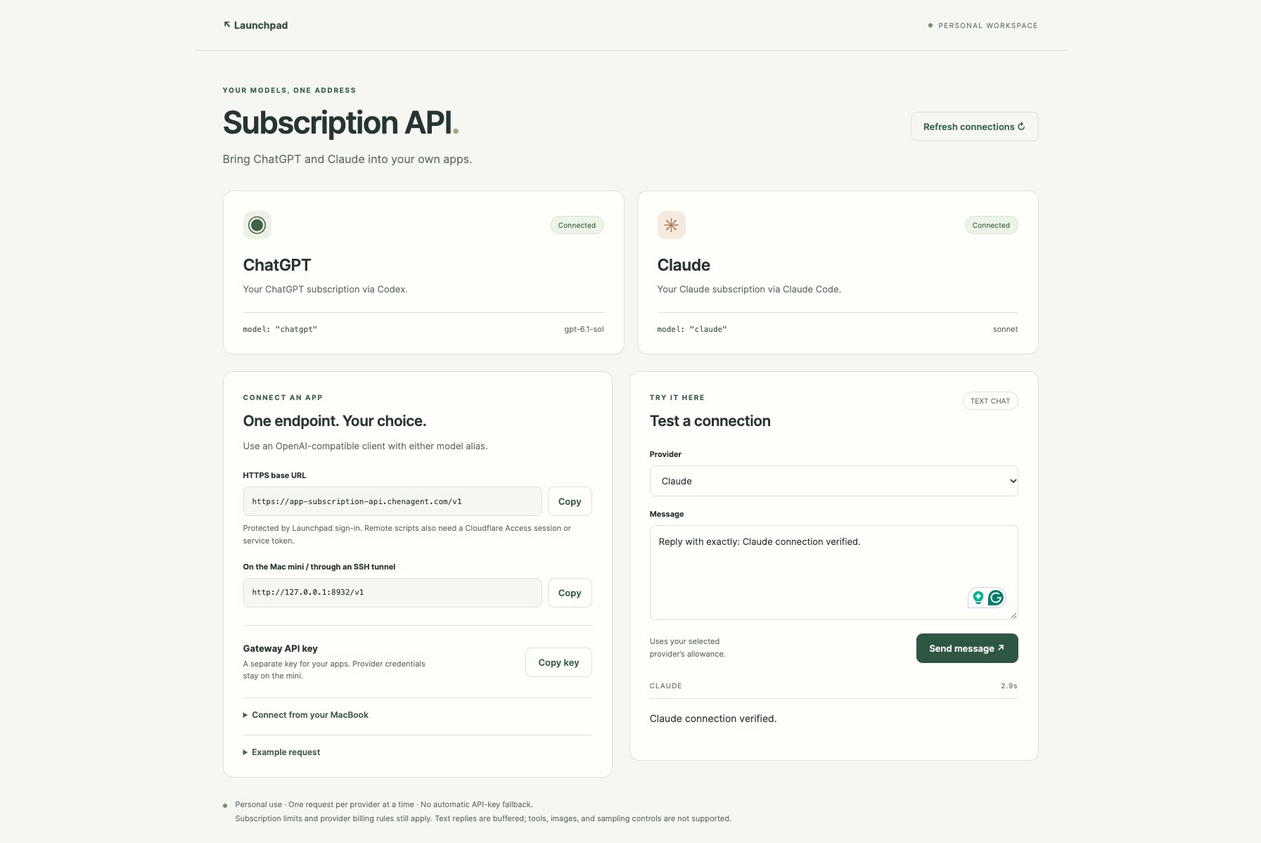
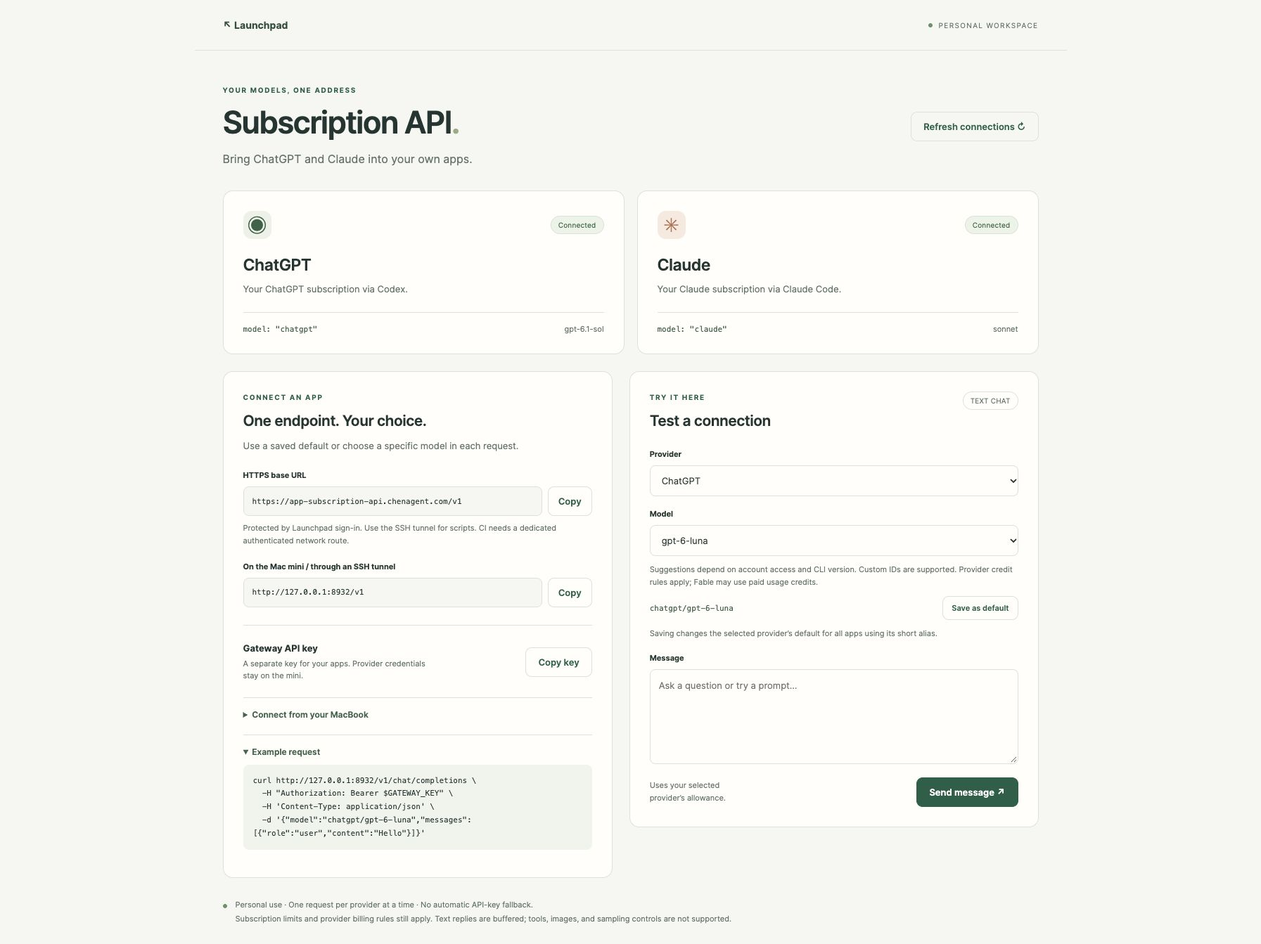
Add selectable models, persistent defaults, and CI integration guide (#2)

diff --git a/public/styles.css b/public/styles.css
@@ -3,3 +3,4 @@
 header{max-width:1240px;margin:auto;padding:27px 40px;display:flex;align-items:center;justify-content:space-between;border-bottom:1px solid var(--line)}.back{text-decoration:none;font-weight:650;font-size:14px;color:#364e40}.private{font-size:10px;letter-spacing:1.4px;display:flex;align-items:center;gap:9px;color:var(--muted)}.dot{width:6px;height:6px;display:inline-block;flex:none;border-radius:50%;background:#72906b}main{max-width:1240px;margin:auto;padding:48px 40px 25px}.intro{display:flex;align-items:center;justify-content:space-between;gap:20px;margin-bottom:32px}.eyebrow{font-size:10px;font-weight:650;letter-spacing:1.7px;color:var(--green);margin:0 0 12px}h1{font-size:44px;letter-spacing:-1.8px;line-height:1.14;font-weight:550;margin:0 0 14px}h1 span{color:#9cad85}.subtitle{font-size:16px;color:var(--muted);margin:0}h2{font-size:21px;font-weight:550;letter-spacing:-.5px;margin:0 0 10px}h3{font-size:13px;margin:0 0 6px}p{font-size:13px;line-height:1.65;color:var(--muted)}.panel{background:var(--white);border:1px solid var(--line);border-radius:14px;padding:28px}.providers{display:grid;grid-template-columns:1fr 1fr;gap:18px;margin-bottom:24px}.provider-top{display:flex;justify-content:space-between;align-items:center;margin-bottom:23px}.mark{display:flex;width:40px;height:40px;border-radius:12px;align-items:center;justify-content:center;font-size:28px}.openai{background:#edf1e8;color:#416149}.anthropic{background:#f6e9df;color:#ae7257}.badge{font-size:10px;letter-spacing:.2px;border:1px solid var(--line);padding:6px 10px;border-radius:25px;color:var(--muted)}.badge.connected{color:#416448;background:#edf3e9;border-color:#d8e4d2}.badge.warning{color:#88613c;background:#fbf2e5;border-color:#eee0c8}.provider h2{font-size:23px}.provider p{margin:0 0 22px}.provider-footer{display:flex;justify-content:space-between;gap:12px;align-items:center;border-top:1px solid var(--line);padding-top:16px;font-size:11px;color:var(--muted)}code,pre{font-family:"SFMono-Regular",Consolas,monospace;font-size:11px}code{color:#48604e}.login-help{padding-top:16px}.login-help p{margin:0 0 5px;font-size:11px}.workspace{display:grid;grid-template-columns:1fr 1.05fr;gap:24px;align-items:start}.endpoint>p{margin-bottom:24px}.endpoint .eyebrow{margin-bottom:12px}.endpoint label{margin-top:20px}.copy-row{display:flex;gap:8px}.copy-row input{min-width:0;font-family:"SFMono-Regular",Consolas,monospace;font-size:11px;background:#f6f7f2}.copy-row button{padding-left:14px;padding-right:14px}label{display:block;font-size:11px;font-weight:650;margin:18px 0 9px}input,select,textarea{width:100%;border:1px solid var(--line);border-radius:8px;background:var(--white);padding:12px;color:#263531;font-size:13px}textarea{resize:vertical;min-height:135px;line-height:1.6}.help{font-size:11px;color:var(--muted);line-height:1.6}.endpoint .help{margin:9px 0 0}.key-row{display:flex;align-items:center;gap:14px;justify-content:space-between;border-top:1px solid var(--line);margin-top:25px;padding-top:24px}.key-row .help{margin:0}.key-row>div{max-width:270px}details{border-top:1px solid var(--line);margin-top:21px;padding-top:16px}summary{cursor:pointer;font-size:12px;font-weight:550;color:#46624e}pre{background:#f1f3ed;border-radius:8px;padding:14px;overflow:auto;line-height:1.7;white-space:pre-wrap;overflow-wrap:anywhere}.section-heading{display:flex;justify-content:space-between;align-items:center;gap:10px}.section-heading .badge{align-self:start}.send-row{display:flex;justify-content:space-between;align-items:center;gap:12px;margin-top:15px}.send-row .help{max-width:150px}.response-label{display:flex;justify-content:space-between;font-size:10px;letter-spacing:1px;color:var(--muted);margin:26px 0 12px}#response{border-top:1px solid var(--line);padding-top:16px;white-space:pre-wrap;overflow-wrap:anywhere;font-size:14px;line-height:1.75;min-height:60px}#notice:empty{display:none}#notice{padding:12px 16px;border:1px solid #d5e0cb;background:#edf3e8;border-radius:8px;font-size:13px;margin-bottom:20px}#notice.error{background:#fcf0e9;border-color:#e8d1c3;color:#8c4f37}.input-row{display:flex;gap:10px}#local-auth{margin-bottom:24px}footer{display:flex;align-items:flex-start;gap:12px;margin-top:29px}footer .dot{margin-top:8px}footer p{font-size:11px;margin:0;line-height:1.8}
 @media(max-width:900px){main{padding:30px 24px}.workspace{grid-template-columns:1fr}.intro{align-items:flex-start}h1{font-size:37px}header{padding:22px 24px}.panel{padding:24px}}
 @media(max-width:560px){.providers{grid-template-columns:1fr}.intro{display:block}.intro>button{margin-top:22px}h1{font-size:34px}.private{font-size:8px;letter-spacing:.8px}main{padding:30px 18px}header{padding:20px 18px}.panel{padding:21px}.provider-top{margin-bottom:18px}.send-row{flex-wrap:wrap}.send-row .help{max-width:none;flex:1}.copy-row{gap:6px}.copy-row input{font-size:10px}.section-heading .badge{display:none}.key-row{align-items:flex-start}.provider-footer span{font-size:10px}.subtitle{font-size:14px}}
+.model-default-row{display:flex;align-items:center;justify-content:space-between;gap:12px}.model-default-row code{overflow-wrap:anywhere;min-width:0}.model-default-row button{padding:9px 12px;font-size:11px}.response-label{gap:12px;overflow-wrap:anywhere}.provider-footer span{overflow-wrap:anywhere;min-width:0}

diff --git a/public/app.js b/public/app.js
@@ -11,6 +11,38 @@ async function request(path, options = {}) {
   if (!response.ok) throw new Error(data.error?.message || 'Request failed.');
   return data;
 }
+function selectedModel() {
+  return $('model').value === 'custom' ? $('provider').value + '/' + $('custom-model').value.trim() : $('model').value;
+}
+function updateSelection() {
+  const custom = $('model').value === 'custom';
+  $('custom-model-wrap').hidden = !custom;
+  $('custom-model').required = custom;
+  const model = selectedModel();
+  $('selected-model').textContent = model;
+  $('save-model').disabled = !model.includes('/') || (custom && !$('custom-model').value.trim());
+  if (loadedStatus) {
+    const body = JSON.stringify({ model, messages: [{ role: 'user', content: 'Hello' }] });
+    const quotedBody = "'" + body.replaceAll("'", "'\\''") + "'";
+    $('example').textContent = [
+      `curl ${loadedStatus.localBaseUrl}/chat/completions`,
+      '  -H "Authorization: Bearer $GATEWAY_KEY"',
+      "  -H 'Content-Type: application/json'",
+      `  -d ${quotedBody}`,
+    ].join(' \\\n');
+  }
+}
+function renderModels(preserve = false) {
+  if (!loadedStatus) return;
+  const provider = $('provider').value;
+  const previous = preserve ? $('model').value : provider;
+  $('model').replaceChildren(...loadedStatus.models.filter(model => model.provider === provider).map(model => new Option(model.label, model.id)), new Option('Custom model ID…', 'custom'));
+  $('model').value = [...$('model').options].some(option => option.value === previous) ? previous : provider;
+  $('model').disabled = false;
+  $('custom-model').placeholder = provider === 'chatgpt' ? 'e.g. gpt-6.1-sol' : 'e.g. claude-opus-4-8';
+  $('send').disabled = Boolean(controller);
+  updateSelection();
+}
 async function refresh() {
   $('refresh').disabled = true;
   try {
@@ -28,7 +60,7 @@ async function refresh() {
     }
     $('base-url').value = status.baseUrl;
     $('local-url').value = status.localBaseUrl;
-    $('example').textContent = `curl ${status.localBaseUrl}/chat/completions \\\n  -H "Authorization: Bearer $GATEWAY_KEY" \\\n  -H 'Content-Type: application/json' \\\n  -d '{"model":"chatgpt","messages":[{"role":"user","content":"Hello"}]}'`;
+    renderModels(true);
     notice('');
   } catch (error) { notice(error.message, true); }
   finally { $('refresh').disabled = false; }
@@ -38,7 +70,22 @@ async function copy(value, message) {
   catch { notice('Clipboard access was unavailable. Select and copy the endpoint field manually.', true); }
 }
 $('refresh').addEventListener('click', refresh);
-$('copy-url').addEventListener('click', () => { if (loadedStatus) copy(loadedStatus.baseUrl, 'HTTPS base URL copied. Remote clients also need Cloudflare Access authentication.'); });
+$('provider').addEventListener('change', () => renderModels());
+$('model').addEventListener('change', updateSelection);
+$('custom-model').addEventListener('input', updateSelection);
+$('save-model').addEventListener('click', async () => {
+  const provider = $('provider').value, model = selectedModel().slice(provider.length + 1);
+  $('save-model').disabled = true;
+  try {
+    const result = await request('/api/models/default', { method: 'POST', body: JSON.stringify({ provider, model }) });
+    loadedStatus = { ...loadedStatus, ...result };
+    $(provider + '-model').textContent = result.upstreamModels[provider];
+    renderModels(true);
+    notice(`Default saved: ${provider} now uses ${model}. Existing requests keep their selected model.`);
+  } catch (error) { notice(error.message, true); }
+  finally { updateSelection(); }
+});
+$('copy-url').addEventListener('click', () => { if (loadedStatus) copy(loadedStatus.baseUrl, 'HTTPS base URL copied. For scripts, use a private tunnel or a configured machine-authenticated route.'); });
 $('copy-local').addEventListener('click', () => { if (loadedStatus) copy(loadedStatus.localBaseUrl, 'Local base URL copied.'); });
 $('copy-key').addEventListener('click', async () => {
   try { const result = await request('/api/key', { method: 'POST', body: '{}' }); await copy(result.key, 'Gateway key copied. Paste it into your own app’s API-key setting.'); }
@@ -48,12 +95,12 @@ $('auth-form').addEventListener('submit', event => { event.preventDefault(); loc
 $('cancel').addEventListener('click', () => controller?.abort());
 $('chat-form').addEventListener('submit', async event => {
   event.preventDefault();
-  if (controller) return;
+  if (controller || !loadedStatus) return;
   controller = new AbortController();
   $('send').disabled = true; $('cancel').hidden = false;
   $('response-wrap').hidden = false;
-  const model = $('provider').value;
-  $('response-provider').textContent = model === 'chatgpt' ? 'CHATGPT' : 'CLAUDE';
+  const model = selectedModel();
+  $('response-provider').textContent = model;
   $('response').textContent = 'Waiting for your provider…';
   const start = Date.now();
   const timer = setInterval(() => { $('elapsed').textContent = `${Math.round((Date.now() - start) / 1000)}s`; }, 1000);

diff --git a/public/index.html b/public/index.html
@@ -16,16 +16,22 @@
       <article class="provider panel"><div class="provider-top"><span class="mark anthropic">✳</span><span id="claude-state" class="badge">Checking…</span></div><h2>Claude</h2><p>Your Claude subscription via Claude Code.</p><div class="provider-footer"><code>model: "claude"</code><span id="claude-model"></span></div><div id="claude-login" class="login-help" hidden><p id="claude-login-hint">Sign in on the Mac mini, then refresh:</p><code id="claude-login-command">claude auth login --claudeai</code></div></article>
     </section>
     <div class="workspace">
-      <section class="panel endpoint"><p class="eyebrow">CONNECT AN APP</p><h2>One endpoint. Your choice.</h2><p>Use an OpenAI-compatible client with either model alias.</p>
+      <section class="panel endpoint"><p class="eyebrow">CONNECT AN APP</p><h2>One endpoint. Your choice.</h2><p>Use a saved default or choose a specific model in each request.</p>
         <label for="base-url">HTTPS base URL</label><div class="copy-row"><input id="base-url" readonly aria-label="HTTPS base URL"><button id="copy-url" class="secondary" aria-label="Copy HTTPS base URL">Copy</button></div>
-        <p class="help">Protected by Launchpad sign-in. Remote scripts also need a Cloudflare Access session or service token.</p>
+        <p class="help">Protected by Launchpad sign-in. Use the SSH tunnel for scripts. CI needs a dedicated authenticated network route.</p>
         <label for="local-url">On the Mac mini / through an SSH tunnel</label><div class="copy-row"><input id="local-url" readonly aria-label="Local base URL"><button id="copy-local" class="secondary" aria-label="Copy local base URL">Copy</button></div>
         <div class="key-row"><div><h3>Gateway API key</h3><p class="help">A separate key for your apps. Provider credentials stay on the mini.</p></div><button id="copy-key" class="secondary">Copy key</button></div>
         <details><summary>Connect from your MacBook</summary><p>Keep this tunnel running, then use the local URL and gateway key in your app.</p><pre>ssh -N -L 8932:127.0.0.1:8932 mini</pre></details>
         <details><summary>Example request</summary><pre id="example"></pre></details>
       </section>
       <section class="panel playground"><div class="section-heading"><div><p class="eyebrow">TRY IT HERE</p><h2>Test a connection</h2></div><span class="badge neutral">TEXT CHAT</span></div>
-        <form id="chat-form"><label for="provider">Provider</label><select id="provider" name="provider"><option value="chatgpt">ChatGPT</option><option value="claude">Claude</option></select><label for="prompt">Message</label><textarea id="prompt" rows="4" maxlength="12000" placeholder="Ask a question or try a prompt…" required></textarea><div class="send-row"><span class="help">Uses your selected provider’s allowance.</span><button id="send">Send message ↗</button><button id="cancel" type="button" class="secondary" hidden>Cancel</button></div></form>
+        <form id="chat-form"><label for="provider">Provider</label><select id="provider" name="provider"><option value="chatgpt">ChatGPT</option><option value="claude">Claude</option></select>
+          <label for="model">Model</label><select id="model" name="model" disabled><option>Loading models…</option></select>
+          <div id="custom-model-wrap" hidden><label for="custom-model">Exact model ID</label><input id="custom-model" maxlength="100" placeholder="e.g. gpt-6.1-sol" autocomplete="off" spellcheck="false"></div>
+          <p class="help">Suggestions depend on account access and CLI version. Custom IDs are supported. Provider credit rules apply; Fable may use paid usage credits.</p>
+          <div class="model-default-row"><code id="selected-model"></code><button id="save-model" type="button" class="secondary" disabled>Save as default</button></div>
+          <p class="help">Saving changes the selected provider’s default for all apps using its short alias.</p>
+          <label for="prompt">Message</label><textarea id="prompt" rows="4" maxlength="12000" placeholder="Ask a question or try a prompt…" required></textarea><div class="send-row"><span class="help">Uses your selected provider’s allowance.</span><button id="send" disabled>Send message ↗</button><button id="cancel" type="button" class="secondary" hidden>Cancel</button></div></form>
         <div id="response-wrap" hidden><div class="response-label"><span id="response-provider">RESPONSE</span><span id="elapsed"></span></div><div id="response" role="status" aria-live="polite"></div></div>
       </section>
     </div>

diff --git a/README.md b/README.md
@@ -1,6 +1,6 @@
 # Subscription API
 
-A private, single-user HTTP gateway for ChatGPT and Claude subscriptions, with a small dashboard for connection status, endpoint settings, and test prompts. Select `chatgpt` or `claude` through one OpenAI-compatible **text Chat Completions** endpoint.
+A private, single-user HTTP gateway for ChatGPT and Claude subscriptions, with a small dashboard for connection status, endpoint settings, and test prompts. Select a specific model or a saved `chatgpt` / `claude` default through one OpenAI-compatible **text Chat Completions** endpoint.
 
 The gateway invokes the official Codex and Claude Code CLIs using their existing subscription sign-ins. It does not scrape websites, extract browser cookies, or silently fall back to provider API keys. It is not affiliated with OpenAI or Anthropic.
 
@@ -59,7 +59,7 @@ curl --fail-with-body http://127.0.0.1:8932/v1/chat/completions \
   -d '{"model":"chatgpt","messages":[{"role":"user","content":"Say hello in one sentence."}]}'
 ```
 
-Change `model` to `claude` to use Claude. Add `"stream":true` for buffered SSE. Keep API keys in environment variables or a credential store. See [sample input and output](examples/) for the exact response shape.
+Change `model` to `claude` to use Claude’s saved default, or select a specific model with `chatgpt/gpt-6.1-sol`, `chatgpt/gpt-6-luna`, `claude/opus`, or `claude/claude-opus-4-8`. Add `"stream":true` for buffered SSE. Keep API keys in environment variables or a credential store. See [sample input and output](examples/) for the exact response shape.
 
 In a compatible client, set:
 
@@ -67,7 +67,7 @@ In a compatible client, set:
 | --- | --- |
 | Base URL | `http://127.0.0.1:8932/v1` |
 | API key | Contents of `gateway.key` |
-| Model | `chatgpt` or `claude` |
+| Model | `chatgpt`, `claude`, or `provider/model-id` |
 
 Clients that always send extra fields, require tool calling, or require the Responses API will need adaptation. This project deliberately does not claim complete OpenAI compatibility.
 
@@ -77,7 +77,19 @@ For another computer, forward a local port to the service host:
 ssh -N -L 8932:127.0.0.1:8932 YOUR_SERVER
 ```
 
-Then use the same local base URL and key on that computer. A public HTTPS URL behind Cloudflare Access requires **both** Access authentication and the gateway bearer key. An API key alone does not bypass the Access login. See [deployment](docs/deployment.md).
+Then use the same local base URL and key on that computer. The public HTTPS URL requires **both** an authenticated owner session and the gateway bearer key. An API key or Cloudflare service token alone does not pass the launcher’s owner-identity check. See [deployment](docs/deployment.md).
+
+## Choosing models
+
+In the dashboard, choose **Provider**, then **Model**. Choose **Custom model ID…** to enter a name absent from the suggestions. **Save as default** changes the selected provider’s short alias across all clients and persists through restarts; merely sending a request does not change the default.
+
+`GET /v1/models` lists the two aliases, suggested model IDs, and each saved default. It is a curated convenience list, not a live entitlement check. Any syntactically valid qualified model ID can be requested. Names allow letters, digits, dots, underscores, hyphens, and an optional `[1m]` suffix. The gateway forwards the chosen name to the corresponding official CLI. Account restrictions, CLI versions, and provider alias/fallback policies still apply; the response’s `model` field echoes the requested route, not an independently verified upstream version. A saved default is not validated by making a billable request; use **Send message** to test access.
+
+Codex uses the selected model’s default reasoning effort. Claude aliases can change version over time; use a full ID when you need to request a particular version. See [OpenAI models](https://learn.chatgpt.com/docs/models) and [Claude model configuration](https://code.claude.com/docs/en/model-config). Some selections, including Claude Fable, may consume usage credits under your plan. The gateway does not enable paid API-key fallback or bypass provider billing settings.
+
+## GitHub Actions
+
+CI can call this endpoint to analyze text, diffs, or test logs. Builds and tests still run in the CI runner. See the [CI integration guide](docs/github-actions.md) and [example request step](examples/github-actions-step.yml). The example requires a working authenticated network route; a target repository has not yet been connected.
 
 ## Architecture and configuration
 
@@ -88,7 +100,7 @@ Dashboard / API client
   → Codex or Claude Code (isolated request directory, tools disabled)
 ```
 
-`src/server.mjs` owns HTTP and the trusted launcher contract. `src/providers.mjs` owns CLI arguments, input validation, and response parsing. `src/process.mjs` owns bounded subprocesses and an allowlisted environment. `public/` contains the dashboard; no framework or runtime npm dependencies are required.
+`src/server.mjs` owns HTTP and the trusted launcher contract. `src/models.mjs` owns model routing and persistent defaults. `src/providers.mjs` owns CLI arguments, input validation, and response parsing. `src/process.mjs` owns bounded subprocesses and an allowlisted environment. `public/` contains the dashboard; no framework or runtime npm dependencies are required.
 
 | Environment variable | Default / purpose |
 | --- | --- |
@@ -99,7 +111,7 @@ Dashboard / API client
 | `LAUNCHER_OWNER_EMAIL` | Empty; enables the trusted launcher identity contract only when explicitly configured |
 | `CODEX_BIN`, `CLAUDE_BIN` | `codex`, `claude`; production should use absolute executable paths |
 | `CLAUDE_OAUTH_TOKEN_FILE` | Optional owner-only file containing a subscription OAuth token from `claude setup-token`; injected only into Claude processes |
-| `CHATGPT_MODEL`, `CLAUDE_MODEL` | `gpt-6.1-sol`, `sonnet`; upstream models behind the two aliases |
+| `CHATGPT_MODEL`, `CLAUDE_MODEL` | `gpt-6.1-sol`, `sonnet`; initial alias defaults, overridden by saved dashboard settings |
 
 Inherited environment variables containing API keys, alternative provider URLs, OAuth overrides, and Node preload options are excluded from provider processes. The only optional credential injection is the explicitly configured Claude subscription OAuth file, which must be an owner-only regular file owned by the service user. Codex is forced to ChatGPT authentication and ignores user configuration. Claude runs in safe/restricted mode with an empty tool allowlist. CLI upgrades may change flags, authentication, or output formats; rerun a live smoke test after upgrading.
 

diff --git a/docs/github-actions.md b/docs/github-actions.md
@@ -1,0 +1,36 @@
+# GitHub Actions integration
+
+Yes: a CI job can call `POST /v1/chat/completions` with a selected `provider/model-id`. It can summarize a diff, explain a failed test, or evaluate generated text. It cannot ask this text-only gateway to execute repository commands, run tests, edit files, or perform tool calls. Run normal builds/tests in GitHub Actions and provide only the relevant text to the model.
+
+## Recommended connection for this installation
+
+Use an ephemeral GitHub-hosted runner with a narrowly scoped private network connection to the service host, then an SSH local forward to `127.0.0.1:8932`. The existing Mac mini is already reached over Tailscale. Provision CI identity/network access for only the chosen repository and only the required host/port. Use a dedicated forwarding-only SSH identity, a verified/pinned SSH host key, and the gateway key in GitHub Actions secrets. Do not reuse a personal administrator SSH key. Network access alone does not expose the gateway: it binds only to loopback, so the SSH forward is still required.
+
+```text
+GitHub-hosted runner → private network → restricted SSH tunnel
+  → Mac mini loopback:8932 → selected subscription model
+```
+
+GitHub documents [private networking for hosted runners](https://docs.github.com/en/actions/concepts/runners/private-networking). The exact network action, trust policy, SSH configuration, secret names, and event trigger must be configured and tested for the target repository before enabling an AI job.
+
+The existing public app URL is protected twice: Cloudflare Access and the launcher’s signed owner-email check. An API key alone does not pass either. A Cloudflare service token alone also fails the launcher’s owner-email check. A separate machine-authenticated route could be built, but has not been provisioned. Do not weaken the owner dashboard policy to make CI work.
+
+Avoid placing a general-purpose self-hosted runner on the personal Mac mini just to reach the endpoint: it executes repository workflow code on that machine. GitHub-hosted execution with restricted forwarding keeps build execution separate from the subscription host.
+
+## Add the request step
+
+After the trusted network/tunnel step works, copy [the example step](../examples/github-actions-step.yml) under a job’s `steps`. Set:
+
+- `SUBSCRIPTION_API_BASE_URL` repository variable: `http://127.0.0.1:8932/v1` for the runner’s local SSH-forwarded port.
+- `SUBSCRIPTION_API_MODEL` repository variable: an explicit route such as `chatgpt/gpt-6-luna` or `claude/sonnet`; aliases are allowed but change with the dashboard default.
+- `SUBSCRIPTION_API_KEY` repository secret: the gateway key. Keep provider OAuth credentials on the service host.
+
+The example makes one small test call, checks the HTTP and response shape, and records only success in the job summary. It deliberately does not log arbitrary model output or execute it. It is a step fragment, not a complete provisioned workflow. Start with a manual `workflow_dispatch` job on a trusted branch. Do not expose gateway/network credentials to fork PR code or execute model-generated commands. See [GitHub’s secure workflow guidance](https://docs.github.com/en/actions/reference/security/secure-use).
+
+For useful review/test analysis, build the JSON from input files with `jq --rawfile` rather than interpolating untrusted PR content into shell code. Keep the combined conversation under 100,000 characters and the HTTP body under 256 KB. Treat generated advice as advisory; deterministic tests should decide whether builds pass.
+
+## Reliability and usage
+
+The Mac mini, private network, CLIs, and subscription sign-ins must remain available. The endpoint permits one in-flight request per provider and times out inference after 90 seconds. Use a workflow/job timeout and avoid parallel requests to the same provider. Requests can fail with 429 (busy/limit), 503 (login), or 502 (provider/model error). Do not blindly retry timeouts: a request may already have consumed allowance. Choose whether an AI-step outage should block the build; normal build/test jobs should remain independent unless AI evaluation is explicitly a release requirement.
+
+Usage follows subscription/model/credit rules; this is not unlimited CI capacity. [Claude documents subscription access for noninteractive calls](https://support.claude.com/en/articles/15036540-use-the-claude-agent-sdk-with-your-claude-plan), while model access and billing can vary by account. No live GitHub-to-gateway request has been verified yet: a target repository and CI task are still needed.

diff --git a/docs/deployment.md b/docs/deployment.md
@@ -4,7 +4,7 @@
 
 Run as a user who has already signed into both official CLIs. Set an absolute persistent `APP_DATA_DIR`, absolute CLI executable paths, `PORT`, and `PUBLIC_ORIGIN`. Keep the listener on loopback. The process exits its child requests on cancellation/shutdown, so use a service manager with a shutdown grace period of at least three seconds.
 
-Use an SSH tunnel for API clients that cannot supply Cloudflare Access credentials. The HTTPS endpoint behind Access requires an authenticated Access cookie or an explicitly configured Access service-token policy **in addition to** the gateway key. The initial deployment does not create a new Cloudflare service token or widen the existing owner-only policy.
+Use an SSH tunnel for API clients that cannot supply Cloudflare Access credentials. The HTTPS endpoint behind Access and the launcher requires an authenticated owner session **in addition to** the gateway key. The launcher currently requires an owner-email JWT; simply adding a Cloudflare service token is insufficient. Machine access requires a deliberately scoped route or a private SSH tunnel. The initial deployment does not create a new Cloudflare service token or widen the existing owner-only policy.
 
 ## Personal launcher integration
 
@@ -50,3 +50,7 @@ The credential has a provider-controlled lifetime. When it expires or is revoked
 - Shutdown leaves stale work directories after an abrupt host crash: after confirming the service is stopped and has no active provider children, remove only its empty `work/request-*` directories.
 
 This app neither starts nor changes the historical llm-router or claude-router messaging services.
+
+## Saved model defaults
+
+The dashboard saves defaults in `APP_DATA_DIR/models.json` (owner-only, atomic replacement). These saved values take precedence over `CHATGPT_MODEL` and `CLAUDE_MODEL`, which seed a fresh installation. Changing a default affects later alias requests; explicit `provider/model-id` requests and already-started requests keep their selection. Back up this small settings file with the gateway key. Invalid settings fail startup instead of silently choosing another model.

diff --git a/docs/validation.md b/docs/validation.md
@@ -40,3 +40,13 @@ Initial release, Node.js 22+ on macOS. Codex CLI 0.159.2 and Claude Code 2.1.273
 ## Known limits
 
 No mobile-device browser test was performed. The CSS includes narrow-screen layouts, but only the desktop browser was visually verified. HTTPS API access requires the existing Cloudflare Access authentication plus the gateway key; clients without Access support can use an SSH tunnel. Remaining subscription quota and provider-side charges were not measured. CLI upgrades and expiring OAuth credentials require maintenance.
+
+## Model selection update — 2026-10-15
+
+- `npm ci`, `npm run check`, and all 21 tests pass. Added coverage for explicit model routing, saved-default authentication/origin checks, concurrent atomic saves, persistence, invalid identifiers, failed-write handling, and concurrency across different models of one provider.
+- Authenticated Chrome: selected `chatgpt/gpt-6-luna` and received `MODEL_PICKER_OK`; entered custom `claude/claude-opus-4-8` and received `CLAUDE_MODEL_PICKER_OK`.
+- Saved Claude’s custom model, restarted the launcher-managed service, reloaded the dashboard, and observed `Saved default (claude-opus-4-8)`. Restored the original defaults (`gpt-6.1-sol`, `sonnet`) after testing.
+- Verified per-request selection updates the displayed curl example without changing the saved default. Updated `docs/dashboard.png` from the deployed page.
+- The Bash request block in `examples/github-actions-step.yml` passes `bash -n` and ran successfully against the local gateway with `chatgpt/gpt-6-luna`. This verifies the request step, not GitHub networking.
+- Inspected the launcher auth implementation: it requires a signed JWT with the configured owner email. A Cloudflare service token alone is insufficient. Updated the deployment and CI guidance accordingly; no launcher source or Access policy changes were made.
+- No target GitHub repository, CI job purpose, machine network credentials, or live GitHub-to-gateway call is configured for this integration. The YAML artifact is explicitly a step fragment with a network prerequisite.

diff --git a/docs/artifacts.md b/docs/artifacts.md
@@ -2,8 +2,9 @@
 
 | Artifact | Purpose | Format / how to use |
 | --- | --- | --- |
-| [Dashboard](dashboard.png) | Verified deployed UI, initial release | PNG; open in any image viewer |
+| [Dashboard](dashboard.png) | Verified deployed UI with model selection | PNG; open in any image viewer |
 | [Validation](validation.md) | Automated and live verification results | Markdown |
+| [CI guide](github-actions.md) and [request step](../examples/github-actions-step.yml) | CI setup requirements and copyable request step; network setup pending | Markdown / YAML |
 | [Request](../examples/request.json) | Harmless example input | JSON; send to `/v1/chat/completions` |
 | [Response](../examples/response.json) | Representative output schema | JSON; sample, not a promised model response |
 | [Source](../src/) and [UI](../public/) | Editable implementation | JavaScript, HTML, CSS; Node 22+ |
